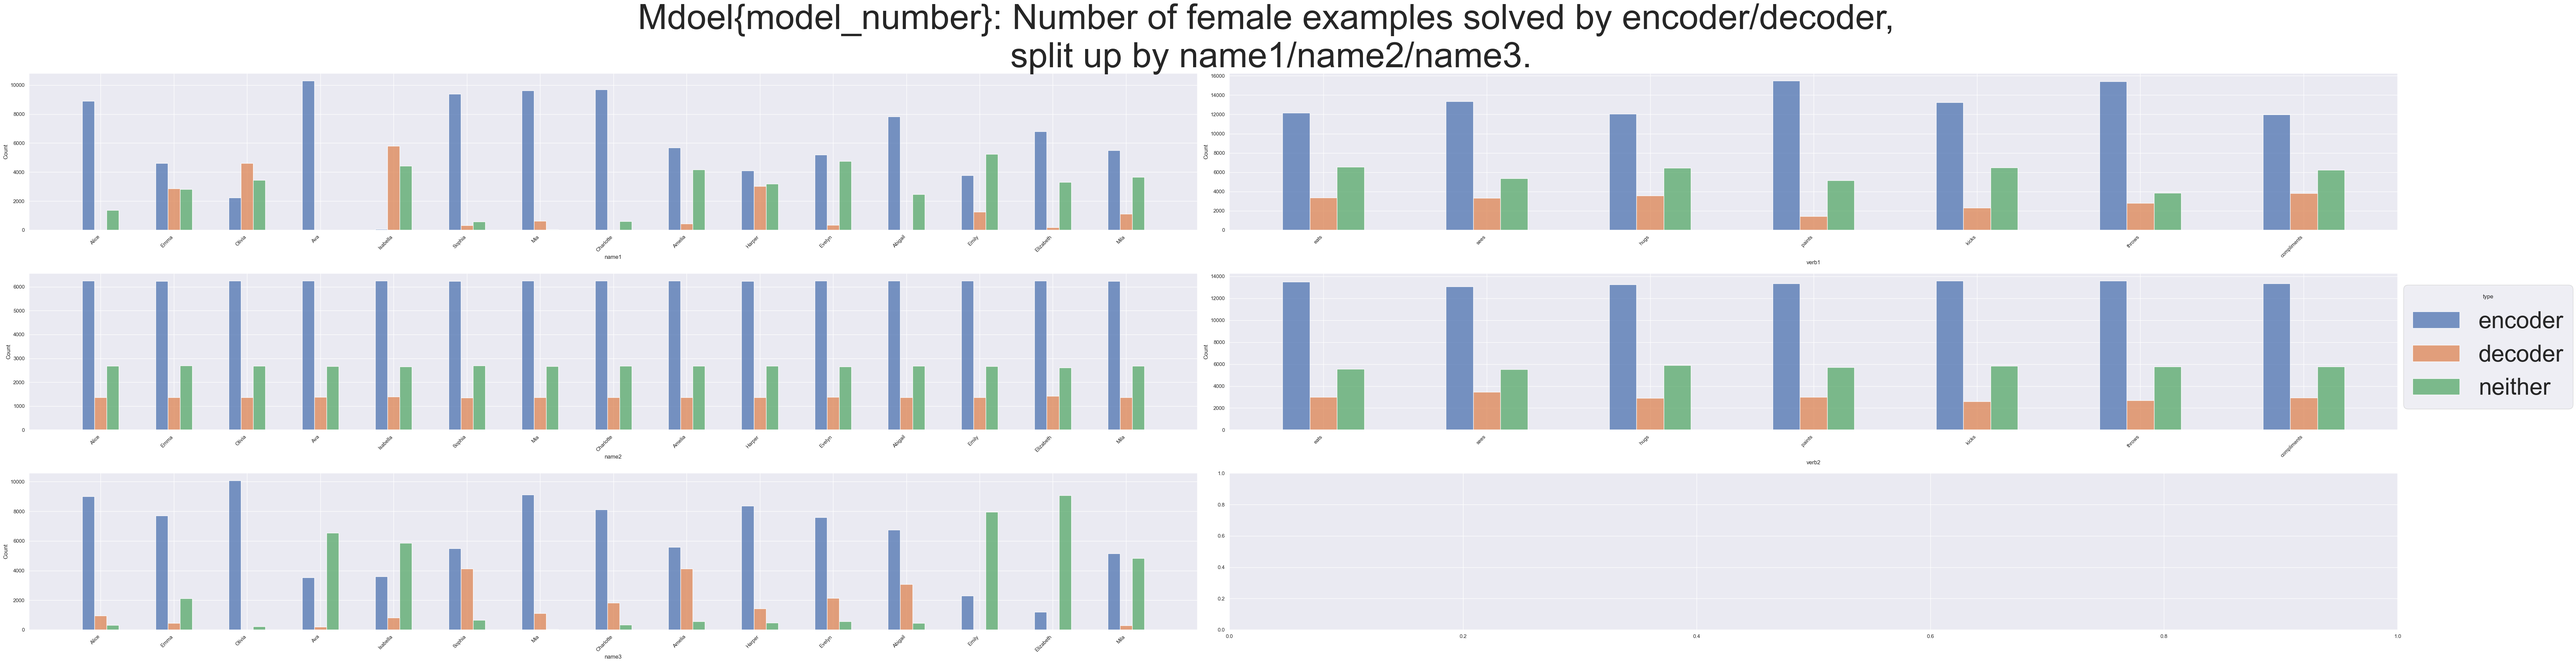
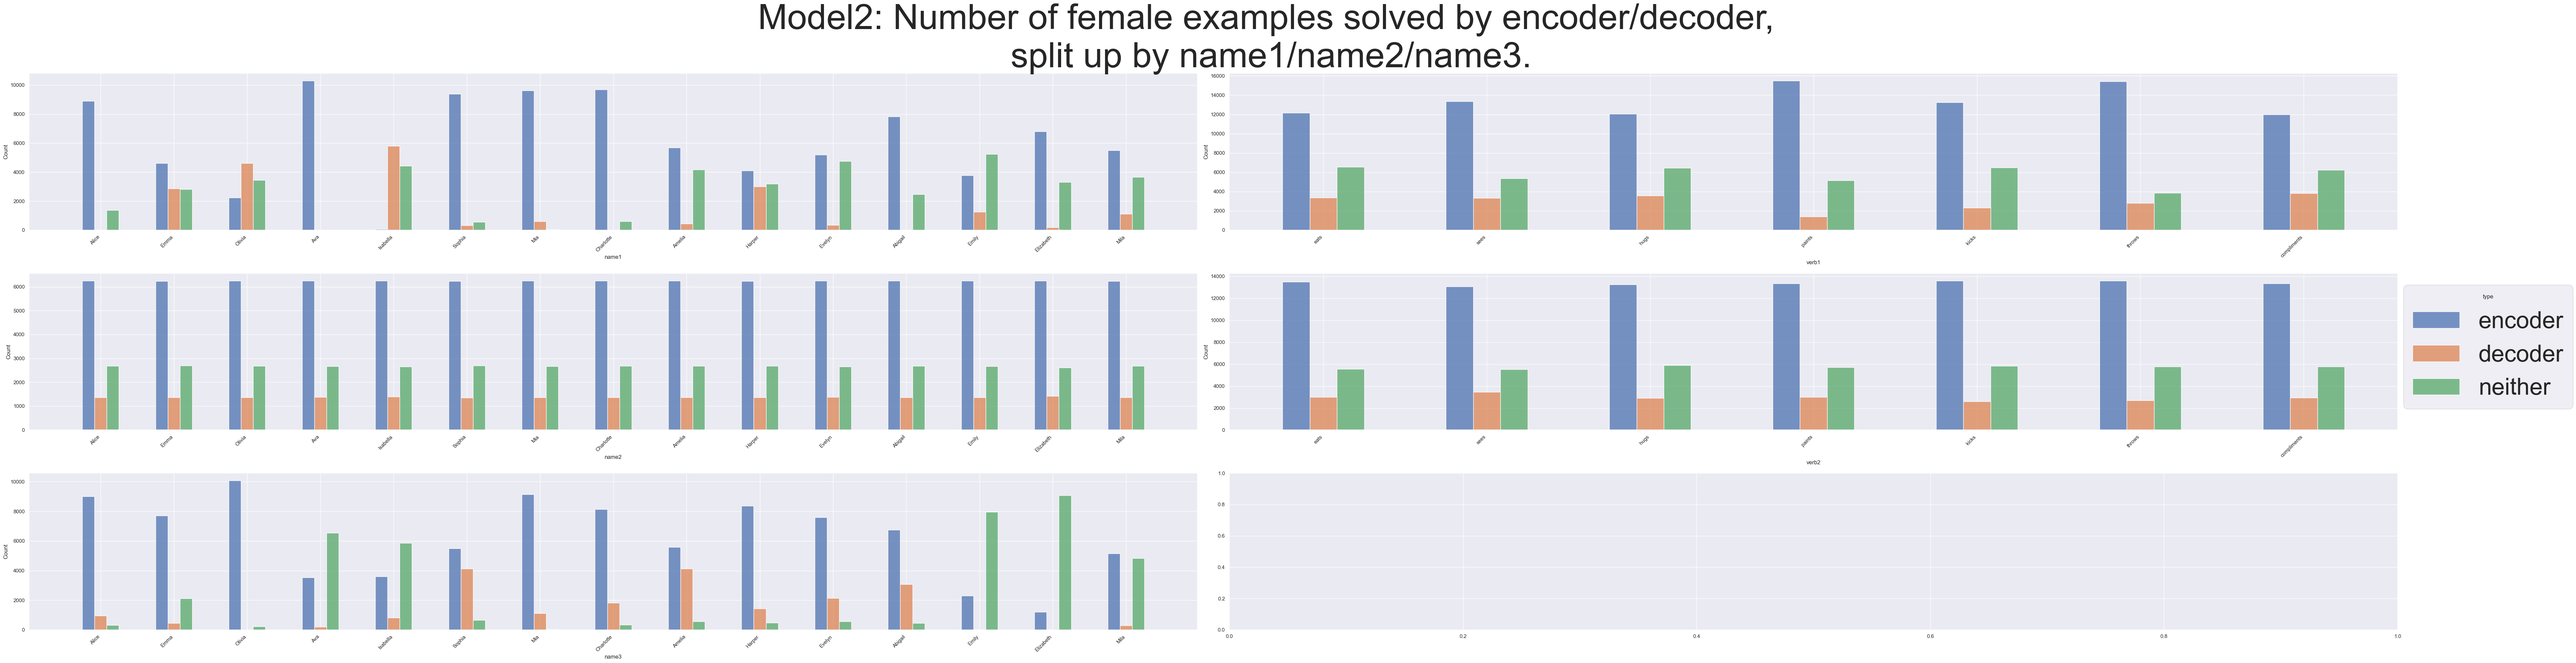
Fixed errors in graph, removed decoder-only class from the encoder-decoder file

Changed region(s): [[0.249, 0.0, 0.7471, 0.0622]]

diff --git a/Encoder_Decoder.py b/Encoder_Decoder.py
@@ -221,83 +221,6 @@ class ED_Transformer(nn.Module):
         out = self.linear_out(transformer_out) # Output is SEQ_LEN X BATCH X OUTPUT_VOCAB_SIZE
 
         return out
-# %%
-from torch import nn
-import einops 
-from fancy_einsum import einsum
-import math
-
-class SelfAttention(nn.Module):
-    """Shamelessly borrowed from https://colab.research.google.com/github/neelnanda-io/Easy-Transformer/blob/clean-transformer-demo/Clean_Transformer_Demo.ipynb#scrollTo=kWpfPKHs9tHI"""
-    def __init__(self, n_heads, d_head, d_model):
-        super().__init__()
-        self.n_heads = n_heads
-        self.d_head= d_head
-        self.d_model = d_model
-
-        self.W_Q = nn.Parameter(torch.empty(n_heads, d_model, d_head))
-        nn.init.normal_(self.W_Q, std=1)
-        self.b_Q = nn.Parameter(torch.zeros((n_heads, d_head)))
-
-        self.W_K = nn.Parameter(torch.empty(n_heads, d_model, d_head))
-        nn.init.normal_(self.W_K, std=1)
-        self.b_K = nn.Parameter(torch.zeros((n_heads, d_head)))
-
-        self.W_V = nn.Parameter(torch.empty(n_heads, d_model, d_head))
-        nn.init.normal_(self.W_V, std=1)
-        self.b_V = nn.Parameter(torch.zeros((n_heads, d_head)))
-
-        self.W_O = nn.Parameter(torch.empty(n_heads, d_head, d_model))
-        nn.init.normal_(self.W_O, std=1)
-        self.b_O = nn.Parameter(torch.zeros((d_model)))
-
-    def apply_causal_mask(self, attn_scores):
-        mask = torch.triu(torch.ones(attn_scores.size(-2), attn_scores.size(-1), device=attn_scores.device), diagonal=1).bool()
-        attn_scores.masked_fill_(mask, -1e5)
-        return attn_scores
-    
-    def forward(self, normalized_resid_pre):
-        # normalized_resid_pre: [batch, position, d_model]
-
-        q = einsum("batch query_pos d_model, n_heads d_model d_head -> batch query_pos n_heads d_head", normalized_resid_pre, self.W_Q) + self.b_Q
-        k = einsum("batch key_pos d_model, n_heads d_model d_head -> batch key_pos n_heads d_head", normalized_resid_pre, self.W_K) + self.b_K
-        v = einsum("batch key_pos d_model, n_heads d_model d_head -> batch key_pos n_heads d_head", normalized_resid_pre, self.W_V) + self.b_V
-
-        attn_scores = einsum("batch query_pos n_heads d_head, batch key_pos n_heads d_head -> batch n_heads query_pos key_pos", q, k)
-        attn_scores = attn_scores / math.sqrt(self.d_head)
-        attn_scores = self.apply_causal_mask(attn_scores)
-        pattern = attn_scores.softmax(dim=-1) # [batch, n_head, query_pos, key_pos]
-
-        z = einsum("batch n_heads query_pos key_pos, batch key_pos n_heads d_head -> batch query_pos n_heads d_head", pattern, v)
-        attn_out = einsum("batch query_pos n_heads d_head, n_heads d_head d_model -> batch query_pos d_model", z, self.W_O) + self.b_O
-        
-        return attn_out, pattern.detach()
-    
-class AttnOnly_Transformer(nn.Module):
-    def __init__(self, vocab_size, n_heads, d_model, d_head, ctx_length=16):
-        super().__init__()
-        self.embedding = nn.Embedding(vocab_size, d_model)
-        self.pos_embedding = nn.Embedding(ctx_length, d_model)
-
-        self.attn = SelfAttention(n_heads=n_heads, d_model=d_model, d_head=d_head)
-        self.unembedding = nn.Linear(d_model, vocab_size)
-
-    def embed(self, tensor, embedding, pos_embedding):
-        return embedding(tensor)+pos_embedding(einops.repeat(torch.arange(tensor.size(0)), "n -> n b", b=tensor.size(1)).to(torch.int64).to(device))
-    
-    def forward(self, seq):
-        # seq is of shape BATCH X POS, where entries are integers
-        embed = self.embed(seq, self.embedding, self.pos_embedding)
-        attn_out, pattern = self.attn(embed)
-        model_out = self.unembedding(attn_out)
-
-        return attn_out, pattern
-
-# %%
-vocab_full = eng_vocab+parsed_vocab[3:]
-for src, tgt in dl:
-    break
-full_seq = src
 
 # %%
 import random
@@ -339,19 +262,20 @@ def train(dl_train, model, optimizer, criterion, epochs, verbose=False):
     return model
 
 # %%
-corpus_train, corpus_test = create_train_corpus(corpus=corpus, excluded_females=5, exclude_men=False)
-ds_train = Autoregressive_TextDataset(corpus=corpus_train)
-dl_train = torch.utils.data.DataLoader(ds_train, batch_size=32, shuffle=True, collate_fn=add_padding)
-for i in range(1, 5):
-    model = ED_Transformer(input_size=len(eng_vocab), output_size=len(parsed_vocab), d_model=32)
-    optimizer = torch.optim.Adam(model.parameters())
-    criterion = torch.nn.CrossEntropyLoss(reduction="sum")
-    model = train(dl_train, model, optimizer, criterion, epochs=100, verbose=True)
-    torch.save(obj=model.state_dict(), f=f"./Models/transformer_1head_32hidden_100epochs_minus5females_model{i}.pth")
-# %%
-create_train_corpus(corpus=corpus, excluded_females=10, exclude_men=False)
+# corpus_train, corpus_test = create_train_corpus(corpus=corpus, excluded_females=5, exclude_men=False)
+# ds_train = Autoregressive_TextDataset(corpus=corpus_train)
+# dl_train = torch.utils.data.DataLoader(ds_train, batch_size=32, shuffle=True, collate_fn=add_padding)
+# for i in range(1, 5):
+#     model = ED_Transformer(input_size=len(eng_vocab), output_size=len(parsed_vocab), d_model=32)
+#     optimizer = torch.optim.Adam(model.parameters())
+#     criterion = torch.nn.CrossEntropyLoss(reduction="sum")
+#     model = train(dl_train, model, optimizer, criterion, epochs=100, verbose=True)
+#     torch.save(obj=model.state_dict(), f=f"./Models/transformer_1head_32hidden_100epochs_minus5females_model{i}.pth")
 
 # %%
+model = ED_Transformer(input_size=len(eng_vocab), output_size=len(parsed_vocab), d_model=32)
+model.load_state_dict(state_dict=torch.load('Models/transformer_1head_32hidden_100epochs_minus5females_model0.pth'))
+
 def test_example(model, index, max_gen_len=10):
     model.eval()
     src, _ = ds[index]
@@ -535,7 +459,7 @@ def plot_piecewise_breakdowns(results, model_number):
     sns.move_legend(verb2_plot, "upper right", bbox_to_anchor=(1.16, 1), fontsize=50)
 
 
-    plt.suptitle('Mdoel{model_number}: Number of female examples solved by encoder/decoder,\n split up by name1/name2/name3.', size=75)
+    plt.suptitle(f'Model{model_number}: Number of female examples solved by encoder/decoder,\n split up by name1/name2/name3.', size=75)
     plt.tight_layout()
     fig.savefig(f'./Figures/Experiment_Results_070423_model{model_number}_breakdown', bbox_inches='tight')
 
